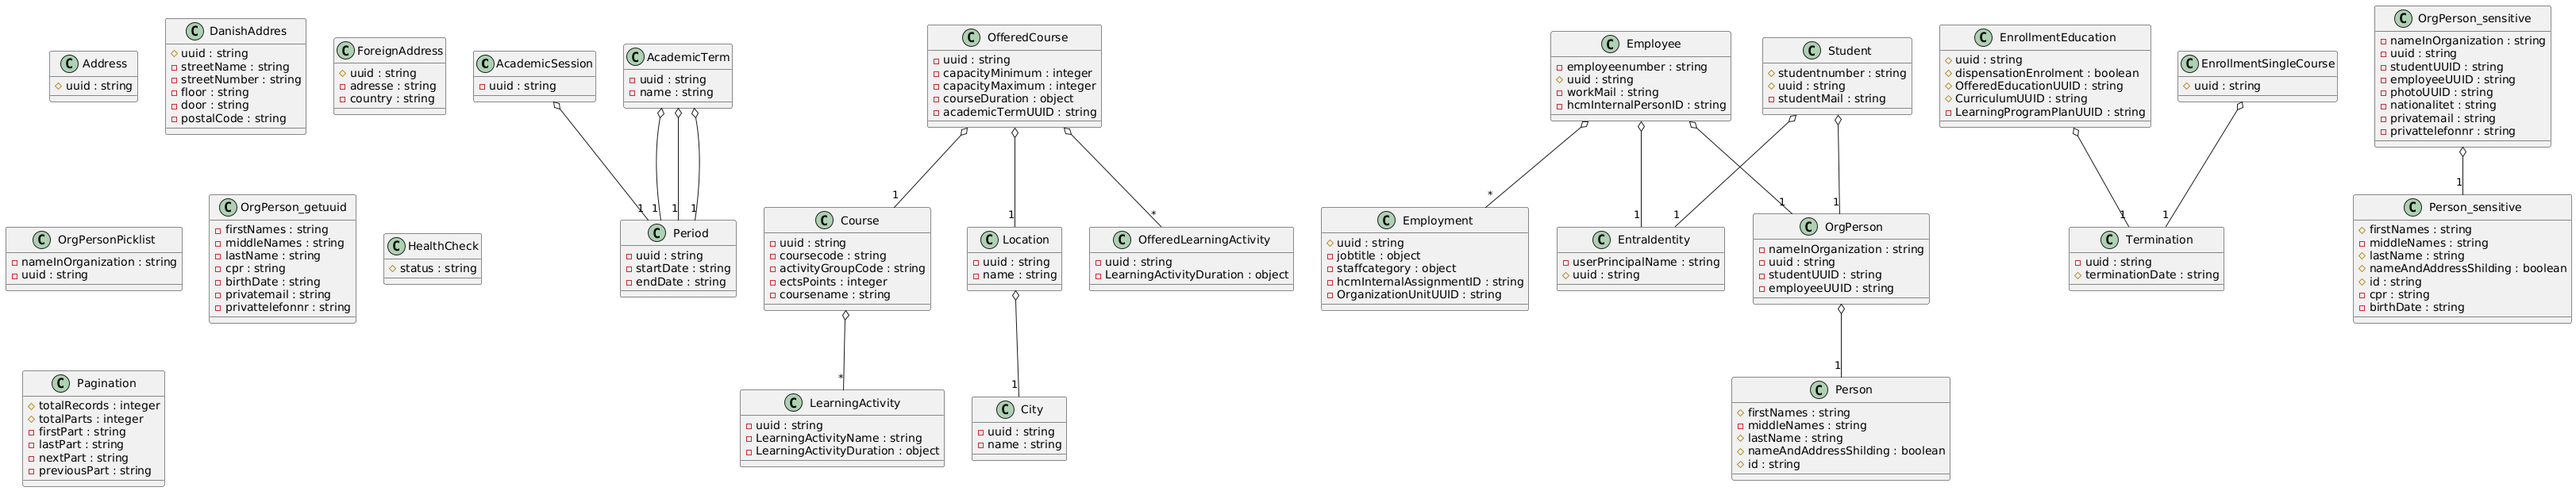
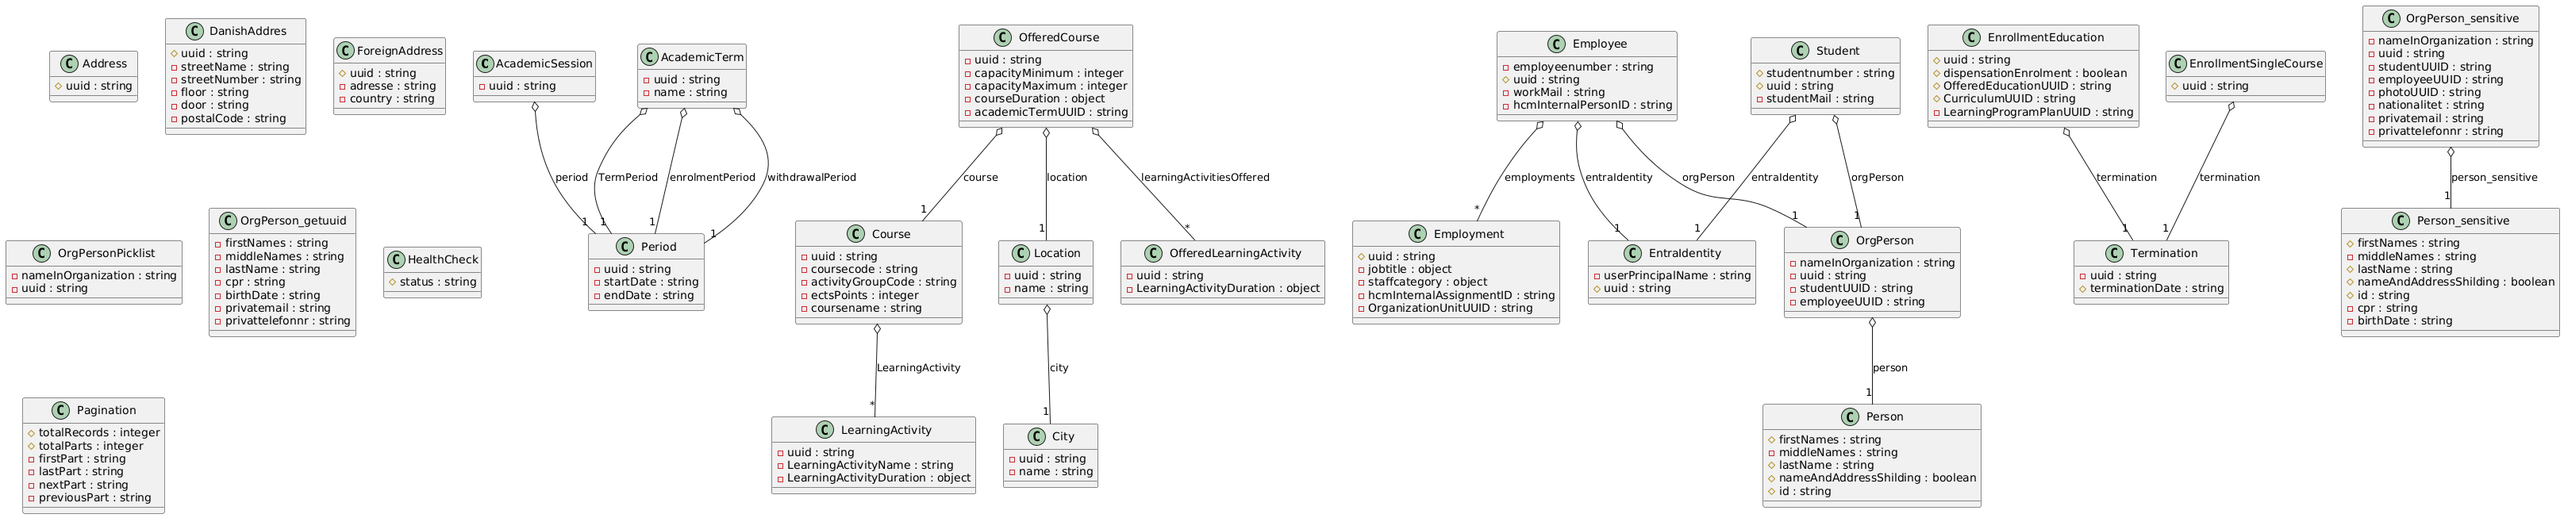
Naming on relations

diff --git a/modules/uml_generator.py b/modules/uml_generator.py
@@ -9,7 +9,7 @@ class UMLGenerator:
         self.schema_dir = schema_dir
         self.uml_model : dict[str, UmlClass] = {}
         self.uml_relationships: list[UmlRelationship] = [] 
-    
+
     def _load_yaml(self) -> dict:
         """Load YAML files from the specified directory."""
         yamls = {}
@@ -81,6 +81,7 @@ class UMLGenerator:
                         source=self.uml_model[schema_name],
                         target=self.uml_model[target_class_name],
                         type="aggregation",
+                        name=prop_name,
                         multiplicitySource="1",
                         multiplicityTarget=multiplicityTarget
                     )
@@ -100,6 +101,7 @@ class UMLGenerator:
                         source=self.uml_model[schema_name],
                         target=self.uml_model[target_class_name],
                         type="aggregation",
+                        name=prop_name,
                         multiplicitySource="1",
                         multiplicityTarget="*"
                     )

diff --git a/modules/uml_to_plantuml.py b/modules/uml_to_plantuml.py
@@ -28,7 +28,7 @@ class UMLToPlantUMLConverter:
         elif relationship.type == "inheritance":
             return f'{relationship.source.name} <|-- {relationship.target.name}\n'
         elif relationship.type == "aggregation":
-            return f'{relationship.source.name} o-- "{relationship.multiplicityTarget}" {relationship.target.name}\n'
+            return f'{relationship.source.name} o-- "{relationship.multiplicityTarget}" {relationship.target.name} : {relationship.name}\n'
         else:
             return ""
 

diff --git a/models/uml_models.py b/models/uml_models.py
@@ -19,6 +19,7 @@ class UmlClass(BaseModel):
 class UmlRelationship(BaseModel):
     source: UmlClass
     target: UmlClass
+    name: str | None = None
     type: str = "association"  # or "composition", "aggregation", etc.
     description: str | None = None
     multiplicitySource: str | None = None  # e.g., "1..*", "0..1", etc.
